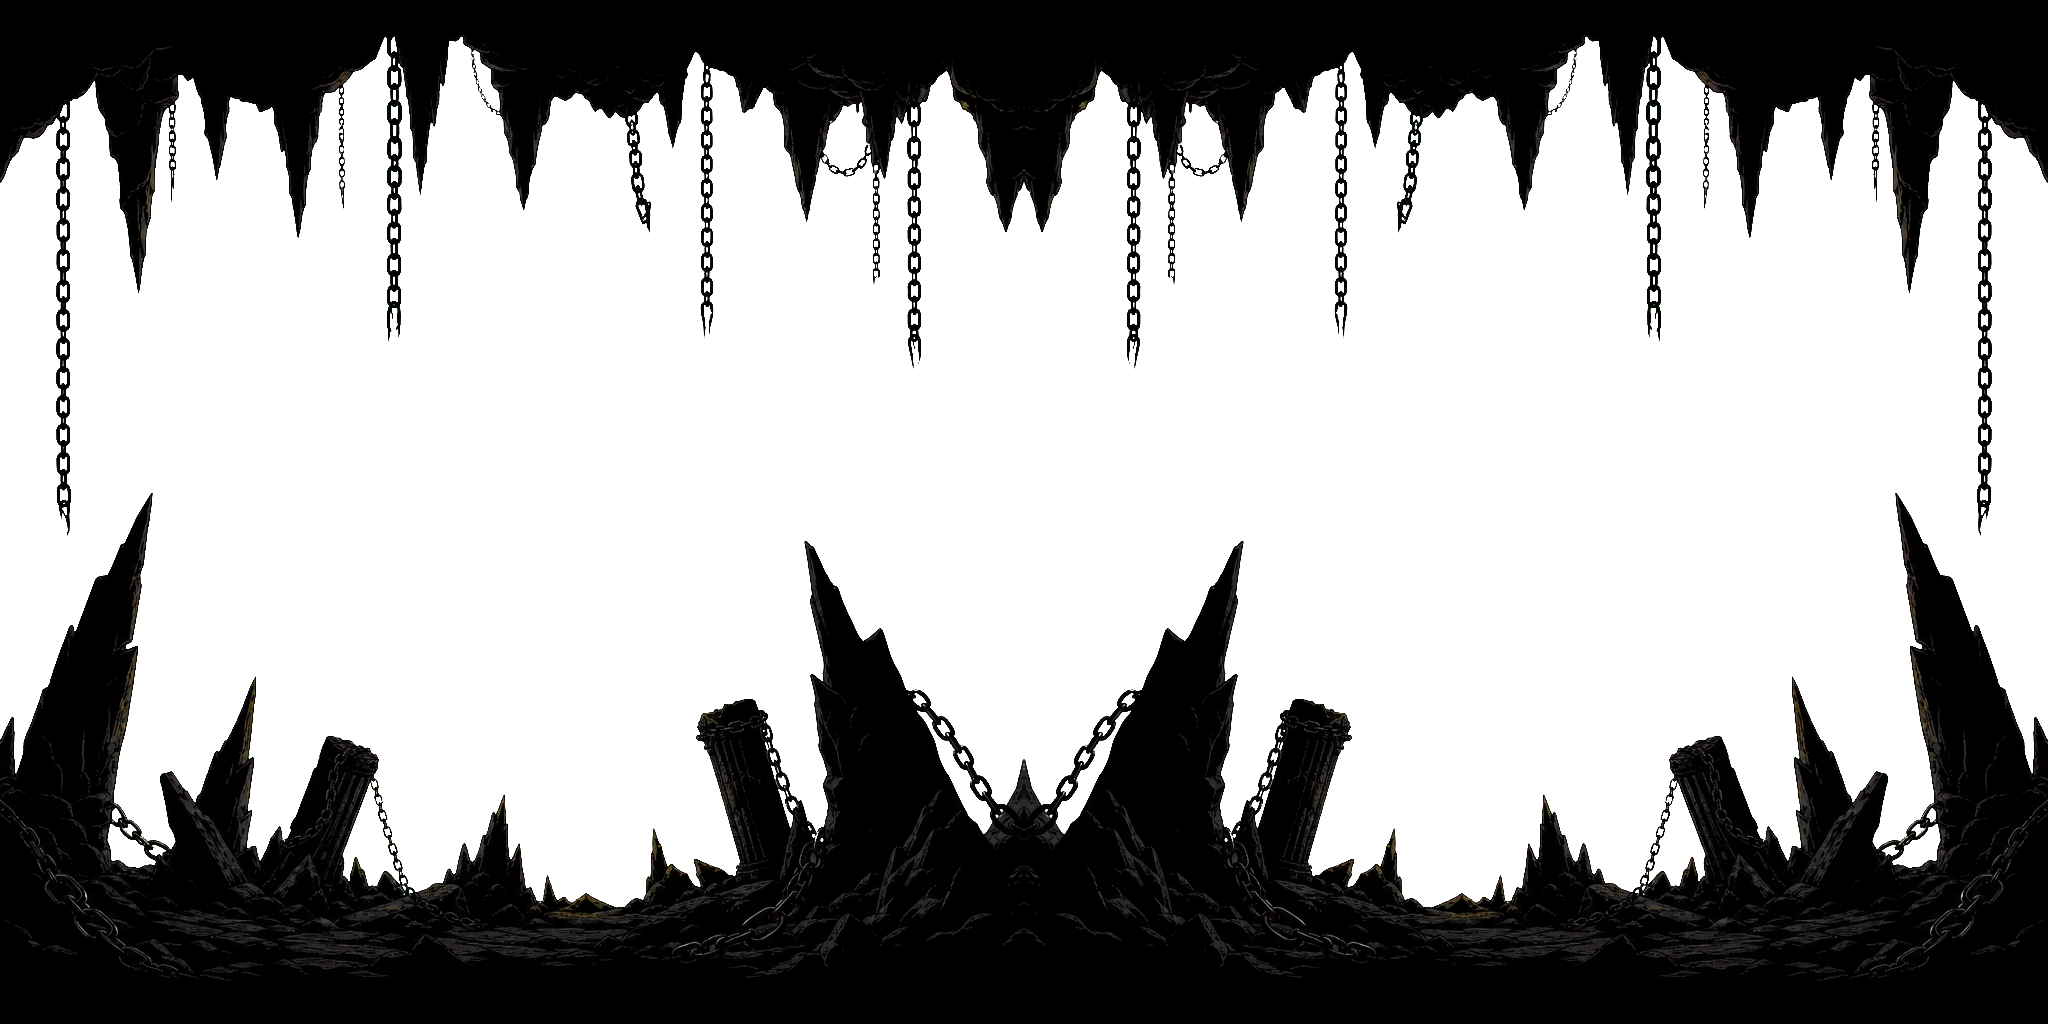
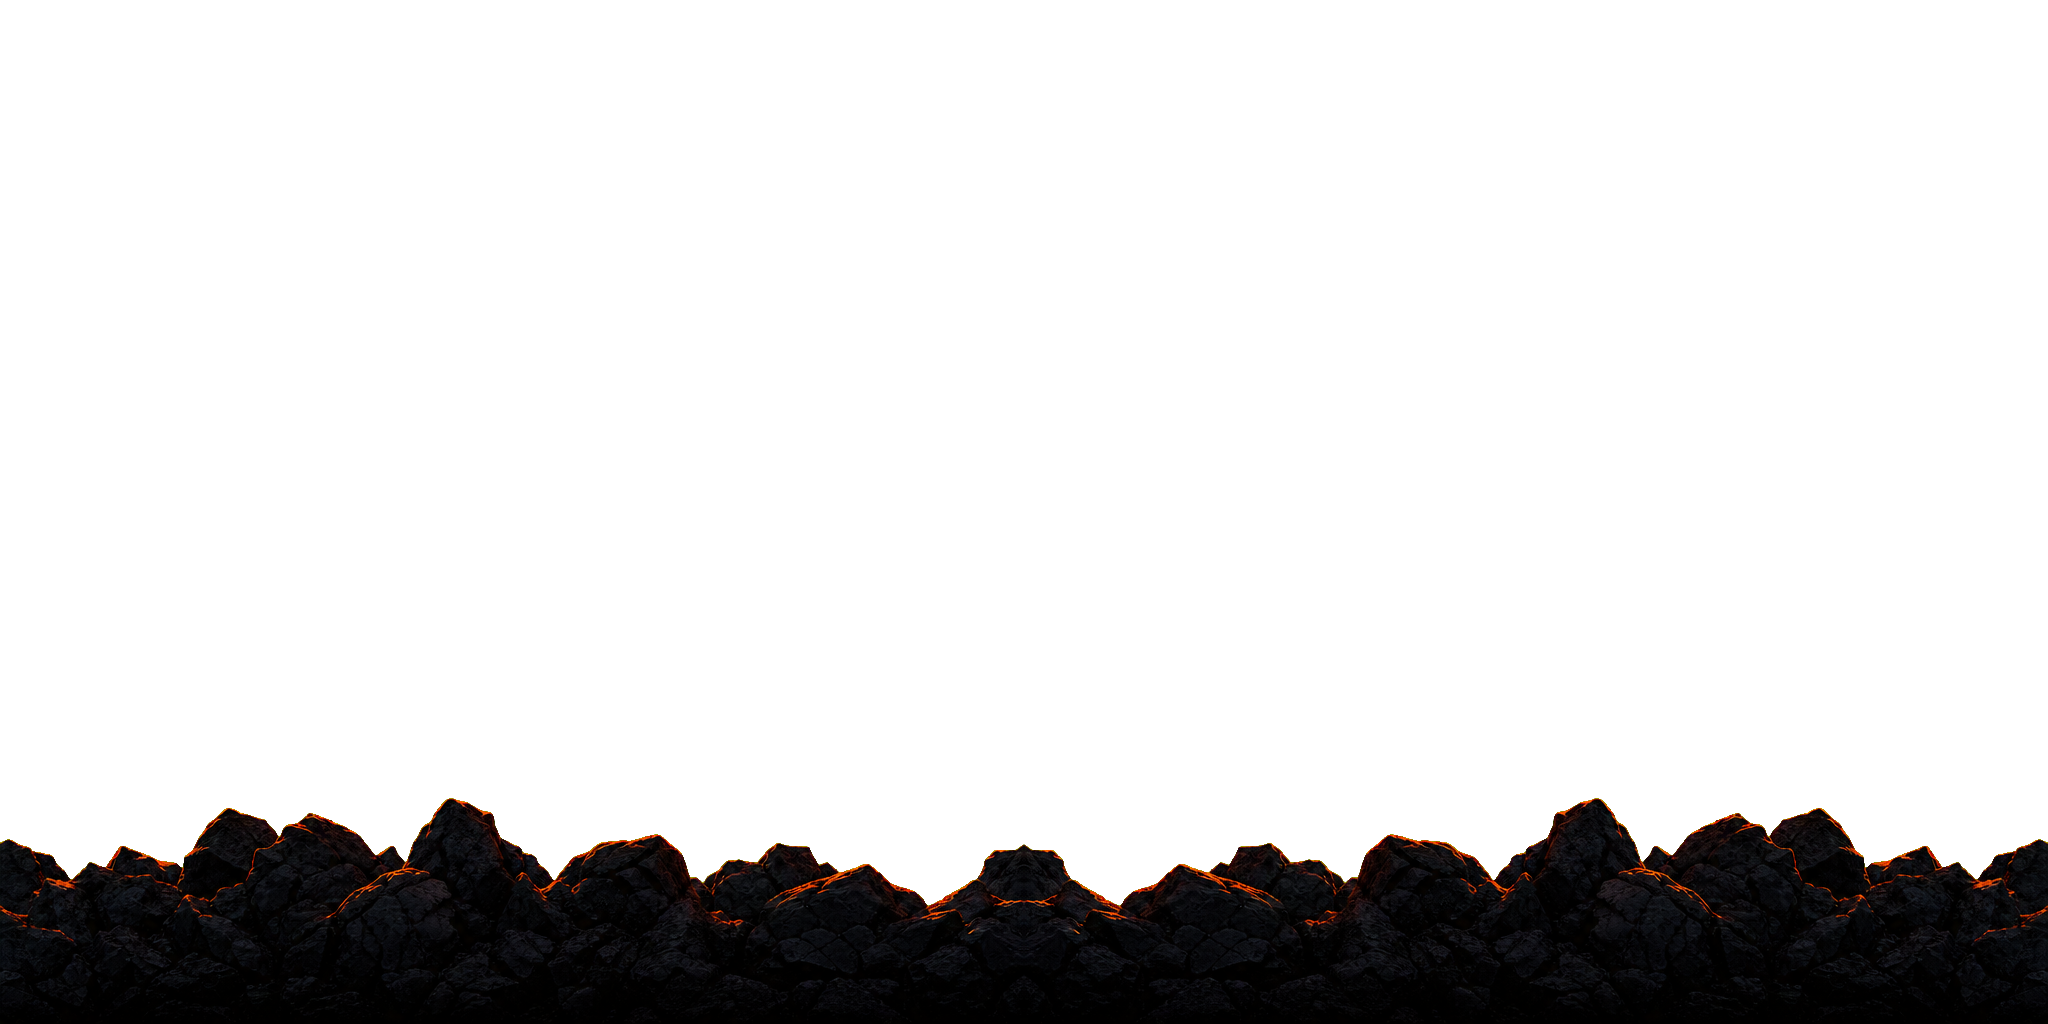
Tune showcase lava and foreground assets

diff --git a/showcase/sections/lava-pool.ts b/showcase/sections/lava-pool.ts
@@ -37,29 +37,12 @@
  * store)` section signature but is intentionally unused (prefixed `_`).
  */
 
-import {
-  createEmitter,
-  stepEmitters,
-  particleAlphaCurve,
-  particleSizeCurve,
-  sampleConeVelocity,
-  step,
-  type ConeConfig,
-  type Emitter,
-  type Particle,
-} from '../../src/particles';
-import {
-  generateWaveLine,
-  DEFAULT_GERSTNER,
-  DEFAULT_WAVE_LINE,
-  resizeCanvasToBackingStore,
-  type WaveLineConfig,
-  type WavePoint,
-} from '../../src/primitives';
-import { mulberry32 } from '../../src/rng';
-import { shouldAnimate } from '../helpers/motion-gate';
-import type { Store } from '../store';
-import type { GlobalState } from '../main';
+import { createEmitter, stepEmitters, particleAlphaCurve, particleSizeCurve, sampleConeVelocity, step, type ConeConfig, type Emitter, type Particle } from "../../src/particles";
+import { generateWaveLine, DEFAULT_GERSTNER, DEFAULT_WAVE_LINE, resizeCanvasToBackingStore, type WaveLineConfig, type WavePoint } from "../../src/primitives";
+import { mulberry32 } from "../../src/rng";
+import { shouldAnimate } from "../helpers/motion-gate";
+import type { Store } from "../store";
+import type { GlobalState } from "../main";
 
 /** Fixed timestep — one tick per rAF frame. Rate / life / gravity / drag
  *  are in tick units (see module doc). rAF provides only wall-clock
@@ -113,7 +96,7 @@ const FIRE_LIFE = 30;
 const FIRE_SIZE = 3;
 /** Bright orange — overrides the lava body color so fire reads as
  *  distinct from the surface crust. */
-const COLOR_FIRE = '#FFAA00';
+const COLOR_FIRE = "#FFAA00";
 /** Cone: straight up (−π/2 in canvas coords where +y is down), spread π/3
  *  (60° — narrow column of sparks). Speed 3–5 px/tick — 2× the prior
  *  1.5–3 so sparks have enough initial velocity to clearly arc up-then-
@@ -142,7 +125,7 @@ const SMOKE_SEED = 99;
 const SMOKE_RATE = 0.8;
 const SMOKE_LIFE = 60;
 const SMOKE_SIZE = 6;
-const COLOR_SMOKE = '#888888';
+const COLOR_SMOKE = "#888888";
 /** Wider cone (spread π/2 = 90°) — smoke billows outward, fire columns. */
 const SMOKE_CONE = {
   baseAngle: -Math.PI / 2,
@@ -186,7 +169,7 @@ const SPLASH_LIFE = 35;
 const SPLASH_SIZE = 5;
 /** Bright yellow — reads as fresh molten lava thrown upward, distinct from
  *  the ambient fire orange (#FFAA00). */
-const COLOR_SPLASH = '#FFCC33';
+const COLOR_SPLASH = "#FFCC33";
 
 /** Directional cone — all particles thrown UPWARD in a 120° arc. This is
  *  what makes the splash read as a splash (not the old full-circle radial
@@ -212,13 +195,13 @@ const SPLASH_ALPHA_END = 0;
 
 /** Near-black warm background — a cave, not a void. Warm hue so the lava
  *  doesn't clash with a cool backdrop. */
-const COLOR_BG = '#1a0d0a';
+const COLOR_BG = "#1a0d0a";
 /** Deep red lava body fill. Saturated enough to read as molten, dark
  *  enough to contrast with the bright surface crust stroke. */
-const COLOR_LAVA_BODY = '#7a0a0a';
+const COLOR_LAVA_BODY = "#7a0a0a";
 /** Bright orange surface crust stroke — mirrors the fire color family so
  *  the surface reads as the top of the molten body. */
-const COLOR_LAVA_SURFACE = '#ff6a00';
+const COLOR_LAVA_SURFACE = "#ff6a00";
 /** Lava surface crust stroke weight (px). */
 const SURFACE_LINE_WIDTH = 2;
 
@@ -237,25 +220,25 @@ export function initLavaPool(
   // initHero; the lava pool runs entirely on local state.
   _store: Store<GlobalState>,
 ): void {
-  const canvas = container.querySelector<HTMLCanvasElement>('.lava-canvas')!;
-  const ctx = canvas.getContext('2d')!;
+  const canvas = container.querySelector<HTMLCanvasElement>(".lava-canvas")!;
+  const ctx = canvas.getContext("2d")!;
   // DPR-aware backing store: canvas.width/height = CSS size × devicePixelRatio
   // so the canvas renders crisp on Retina / high-DPI mobile. CSS sizing is
   // owned by style.css — we only set the backing store + scale the context,
   // so all subsequent drawing continues to use CSS-pixel coordinates.
   const dpr = resizeCanvasToBackingStore(canvas, CANVAS_W, CANVAS_H);
   ctx.scale(dpr, dpr);
-  const surfaceBtn = container.querySelector<HTMLButtonElement>('.lava-surface')!;
-  const intensitySlider = container.querySelector<HTMLInputElement>('.lava-intensity')!;
-  const intensityValue = container.querySelector<HTMLElement>('.lava-intensity-value')!;
-  const splashBtn = container.querySelector<HTMLButtonElement>('.lava-splash')!;
+  const surfaceBtn = container.querySelector<HTMLButtonElement>(".lava-surface")!;
+  const intensitySlider = container.querySelector<HTMLInputElement>(".lava-intensity")!;
+  const intensityValue = container.querySelector<HTMLElement>(".lava-intensity-value")!;
+  const splashBtn = container.querySelector<HTMLButtonElement>(".lava-splash")!;
 
   // Surface line region — shared by BOTH emitters. Particles spawn from
   // the rest position (flat line), not from the wave-displaced curve.
   // Matches the decision example and keeps the spawn distribution uniform
   // across the canvas (a wavy spawn line would cluster particles in troughs).
   const surfaceRegion = {
-    type: 'line' as const,
+    type: "line" as const,
     x1: 0,
     y1: SURFACE_Y,
     x2: CANVAS_W,
@@ -324,10 +307,10 @@ export function initLavaPool(
   // are untouched (see src/primitives/wave-line.ts). Applied per-octave in
   // deriveWaveConfig() so the user can scrub live without rebuilding the
   // emitters or the section.
-  const wavelengthSlider = container.querySelector<HTMLInputElement>('.lava-wavelength')!;
-  const wavelengthValue = container.querySelector<HTMLElement>('.lava-wavelength-value')!;
-  const speedSlider = container.querySelector<HTMLInputElement>('.lava-speed')!;
-  const speedValue = container.querySelector<HTMLElement>('.lava-speed-value')!;
+  const wavelengthSlider = container.querySelector<HTMLInputElement>(".lava-wavelength")!;
+  const wavelengthValue = container.querySelector<HTMLElement>(".lava-wavelength-value")!;
+  const speedSlider = container.querySelector<HTMLInputElement>(".lava-speed")!;
+  const speedValue = container.querySelector<HTMLElement>(".lava-speed-value")!;
 
   let wavelengthScale = Number(wavelengthSlider.value);
   let speedScale = Number(speedSlider.value);
@@ -361,9 +344,9 @@ export function initLavaPool(
   /** Swap wave mode + update the 🌊 button's label/aria to match. */
   const applySurfaceMode = (useGerstner: boolean): void => {
     waveConfig = useGerstner ? DEFAULT_GERSTNER : DEFAULT_WAVE_LINE;
-    const label = surfaceBtn.querySelector('span');
-    if (label) label.textContent = useGerstner ? 'Gerstner' : 'Sine';
-    surfaceBtn.setAttribute('aria-pressed', useGerstner ? 'true' : 'false');
+    const label = surfaceBtn.querySelector("span");
+    if (label) label.textContent = useGerstner ? "Gerstner" : "Sine";
+    surfaceBtn.setAttribute("aria-pressed", useGerstner ? "true" : "false");
   };
   applySurfaceMode(true);
 
@@ -373,47 +356,15 @@ export function initLavaPool(
     // Gerstner pinch travels rightward at octave.speed px/tick. The
     // runtime config is derived from the active base × the live slider
     // scales (wavelength + speed) so user tuning is immediately visible.
-    const surface = generateWaveLine(
-      0,
-      SURFACE_Y,
-      CANVAS_W,
-      SURFACE_Y,
-      SAMPLE_SPACING,
-      tick,
-      deriveWaveConfig(),
-    );
+    const surface = generateWaveLine(0, SURFACE_Y, CANVAS_W, SURFACE_Y, SAMPLE_SPACING, tick, deriveWaveConfig());
 
     // Draw order is intentional: smoke first (behind, billowing up), fire
     // second (in front, bright), splash last (on top, foreground action).
     drawBackground(ctx);
     drawLava(ctx, surface);
-    drawParticles(
-      ctx,
-      smokeEmitter.particles,
-      COLOR_SMOKE,
-      SMOKE_SIZE_START,
-      SMOKE_SIZE_END,
-      SMOKE_ALPHA_START,
-      SMOKE_ALPHA_END,
-    );
-    drawParticles(
-      ctx,
-      fireEmitter.particles,
-      COLOR_FIRE,
-      FIRE_SIZE_START,
-      FIRE_SIZE_END,
-      FIRE_ALPHA_START,
-      FIRE_ALPHA_END,
-    );
-    drawParticles(
-      ctx,
-      splashParticles,
-      COLOR_SPLASH,
-      SPLASH_SIZE_START,
-      SPLASH_SIZE_END,
-      SPLASH_ALPHA_START,
-      SPLASH_ALPHA_END,
-    );
+    drawParticles(ctx, smokeEmitter.particles, COLOR_SMOKE, SMOKE_SIZE_START, SMOKE_SIZE_END, SMOKE_ALPHA_START, SMOKE_ALPHA_END);
+    drawParticles(ctx, fireEmitter.particles, COLOR_FIRE, FIRE_SIZE_START, FIRE_SIZE_END, FIRE_ALPHA_START, FIRE_ALPHA_END);
+    drawParticles(ctx, splashParticles, COLOR_SPLASH, SPLASH_SIZE_START, SPLASH_SIZE_END, SPLASH_ALPHA_START, SPLASH_ALPHA_END);
   };
 
   // Initial paint — also serves as the single static frame for the
@@ -424,14 +375,14 @@ export function initLavaPool(
 
   // 🌊 Surface toggle — Gerstner ↔ Sine. Re-renders immediately so the
   // mode change is visible even with animation paused (or reduced-motion).
-  surfaceBtn.addEventListener('click', () => {
-    applySurfaceMode(waveConfig.mode === 'sine');
+  surfaceBtn.addEventListener("click", () => {
+    applySurfaceMode(waveConfig.mode === "sine");
     surfaceBtn.blur();
     render();
   });
 
   // 🔥 Intensity slider — updates local state; the loop reads it next tick.
-  intensitySlider.addEventListener('input', () => {
+  intensitySlider.addEventListener("input", () => {
     applyIntensity(Number(intensitySlider.value));
   });
 
@@ -439,11 +390,11 @@ export function initLavaPool(
   // immediately re-render so the change is visible even with the rAF loop
   // paused (or in reduced-motion mode). The loop picks up the new scales
   // on its next tick automatically via deriveWaveConfig().
-  wavelengthSlider.addEventListener('input', () => {
+  wavelengthSlider.addEventListener("input", () => {
     applyWavelength(Number(wavelengthSlider.value));
     render();
   });
-  speedSlider.addEventListener('input', () => {
+  speedSlider.addEventListener("input", () => {
     applySpeed(Number(speedSlider.value));
     render();
   });
@@ -479,7 +430,7 @@ export function initLavaPool(
     splashParticles = [...splashParticles, ...burst];
   };
 
-  splashBtn.addEventListener('click', () => {
+  splashBtn.addEventListener("click", () => {
     spawnBurstAt(CANVAS_W / 2, SURFACE_Y);
     splashBtn.blur();
   });
@@ -487,8 +438,8 @@ export function initLavaPool(
   // Canvas click — splash at the click point. Pointer events (not click)
   // for unified mouse/touch/pen. The canvas may be CSS-scaled relative to
   // its intrinsic resolution; scale click coords back to canvas space.
-  canvas.style.touchAction = 'none';
-  canvas.addEventListener('pointerdown', (e) => {
+  canvas.style.touchAction = "none";
+  canvas.addEventListener("pointerdown", (e) => {
     const rect = canvas.getBoundingClientRect();
     const scaleX = CANVAS_W / rect.width;
     const scaleY = CANVAS_H / rect.height;
@@ -519,11 +470,7 @@ export function initLavaPool(
     //    fire without smoke). stepEmitters integrates emission rates,
     //    spawns via region + cone sampling, advances with heterogeneous
     //    physics, and culls dead particles in one pure pass.
-    [fireEmitter, smokeEmitter] = stepEmitters(
-      [fireEmitter, smokeEmitter],
-      DT,
-      { gravity: GRAVITY, drag: DRAG, rateScale: intensity },
-    );
+    [fireEmitter, smokeEmitter] = stepEmitters([fireEmitter, smokeEmitter], DT, { gravity: GRAVITY, drag: DRAG, rateScale: intensity });
 
     // 3. Step splash particles (advance + cull) with their own drag.
     splashParticles = step(splashParticles, DT, {
@@ -540,7 +487,7 @@ export function initLavaPool(
 
   // Pause when the tab is hidden — saves CPU and avoids huge catch-up
   // bursts when the tab is re-shown. Mirrors hero.ts §visibility.
-  document.addEventListener('visibilitychange', () => {
+  document.addEventListener("visibilitychange", () => {
     if (document.hidden) {
       cancelAnimationFrame(rafId);
     } else if (!shouldAnimate()) {
@@ -567,10 +514,7 @@ function drawBackground(ctx: CanvasRenderingContext2D): void {
  * on top. Drawn in two passes (fill then stroke) so the stroke sits on
  * top of the fill seam without bleeding.
  */
-function drawLava(
-  ctx: CanvasRenderingContext2D,
-  surface: readonly WavePoint[],
-): void {
+function drawLava(ctx: CanvasRenderingContext2D, surface: readonly WavePoint[]): void {
   if (surface.length === 0) return;
 
   // Body fill — polyline → down to bottom-right → down to bottom-left → close.
@@ -608,15 +552,7 @@ function drawLava(
  * The radius is floored at 0.5 so a fully-shrunk particle still renders
  * as a single pixel (matches the pixel-art aesthetic).
  */
-function drawParticles(
-  ctx: CanvasRenderingContext2D,
-  particles: readonly Particle[],
-  fallbackColor: string,
-  sizeStart: number,
-  sizeEnd: number,
-  alphaStart: number,
-  alphaEnd: number,
-): void {
+function drawParticles(ctx: CanvasRenderingContext2D, particles: readonly Particle[], fallbackColor: string, sizeStart: number, sizeEnd: number, alphaStart: number, alphaEnd: number): void {
   for (let i = 0; i < particles.length; i++) {
     const p = particles[i];
     const alpha = particleAlphaCurve(p, alphaStart, alphaEnd);

diff --git a/showcase/_scripts/gen-parallax-tiles.ts b/showcase/_scripts/gen-parallax-tiles.ts
@@ -115,7 +115,7 @@ const LAYERS: LayerSpec[] = [
     factor: 0.85,
     background: 'transparent',
     prompt:
-      'Seamless horizontally tileable 2D side-scrolling video game parallax layer. Near foreground silhouettes: hanging chains, stalactites, sharp foreground rocks and rubble. Darkest layer, highest detail and contrast, flat 2D cut-out. The ENTIRE background MUST be a flat, uniform, pure chroma-key green (RGB 0,255,0 / #00FF00) filling all empty space — this is a greenscreen for compositing. The subject must contain NO green whatsoever. Hard clean edges where the subject meets the green; do not blend or feather the subject into the green. NO characters, NO text, NO watermark. Left edge of the green-backed image visually continues into the right edge.',
+      'Seamless horizontally tileable 2D side-scrolling video game parallax layer. A UNIFORM, low-creeping shoreline of dark volcanic foreground ROCKS along the BOTTOM EDGE of the frame only — craggy basalt boulders forming a level, consistent-height ridge. CRITICAL: the TOP EDGE of the rock mass must be roughly LEVEL and even across the ENTIRE width, with only minor jagged boulder-to-boulder variation (a few pixels). Absolutely NO tall peaks, NO spires, NO pinnacles, NO height spikes anywhere — and the height at the LEFT and RIGHT edges MUST match the height in the MIDDLE (do not raise the edges). The ridge is a short, flat-topped, horizontally-broad mass. Silhouetted and pure near-black. NO orange glow, NO warm rim light, NO molten highlights on the rocks anywhere — flat dark silhouettes only. The ENTIRE upper two-thirds of the image MUST be empty flat pure chroma-key green (RGB 0,255,0 / #00FF00) — only the bottom portion contains the level rock ridge. Hard clean edges where rock meets the green; do not blend or feather rock into green. Flat 2D cut-out, darkest layer, highest contrast. NO characters, NO text, NO watermark. Left edge of the rock ridge must visually continue into the right edge.',
   },
 ];
 
